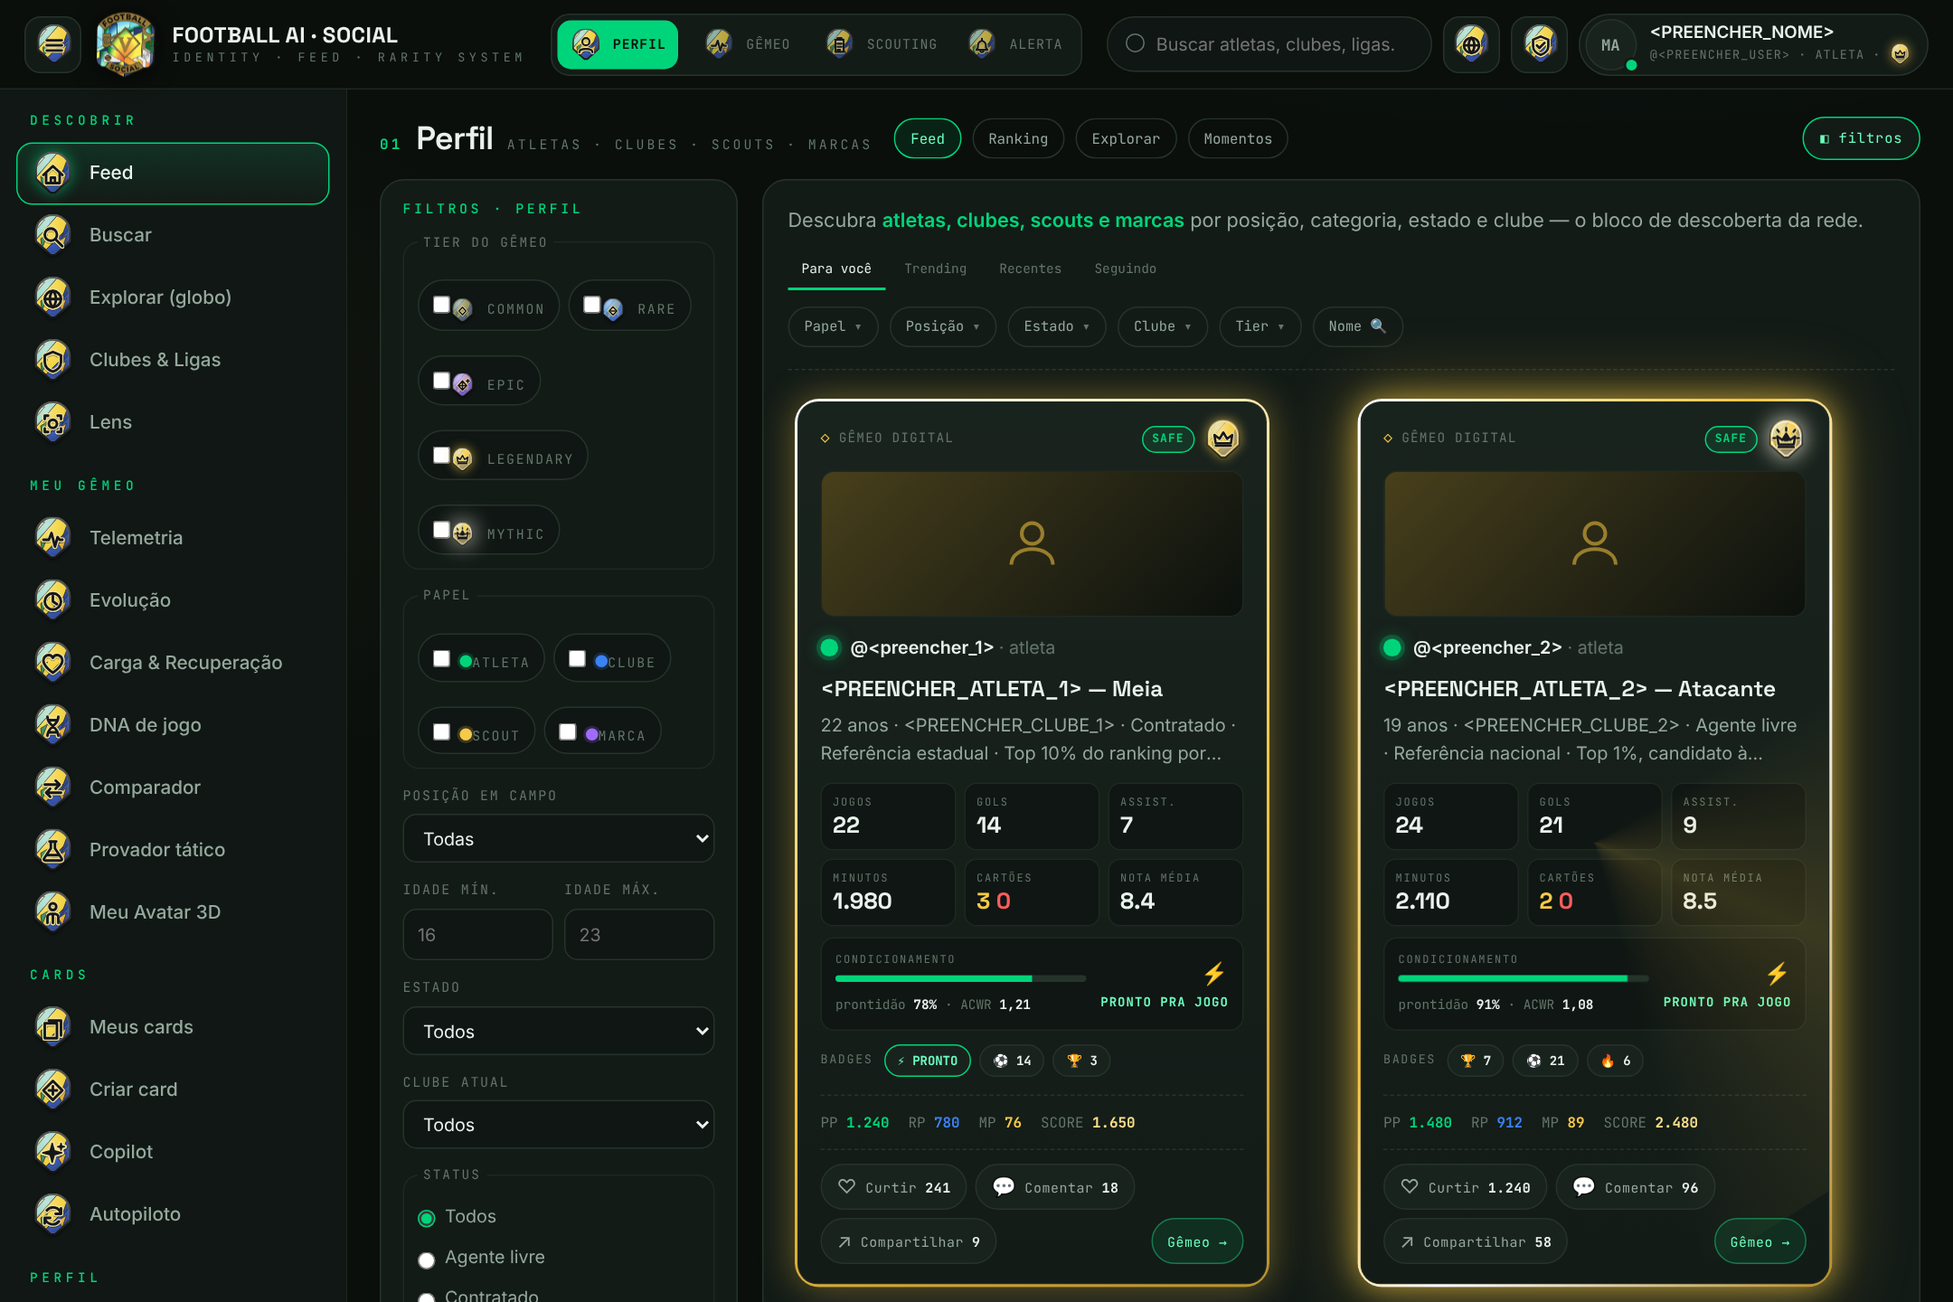
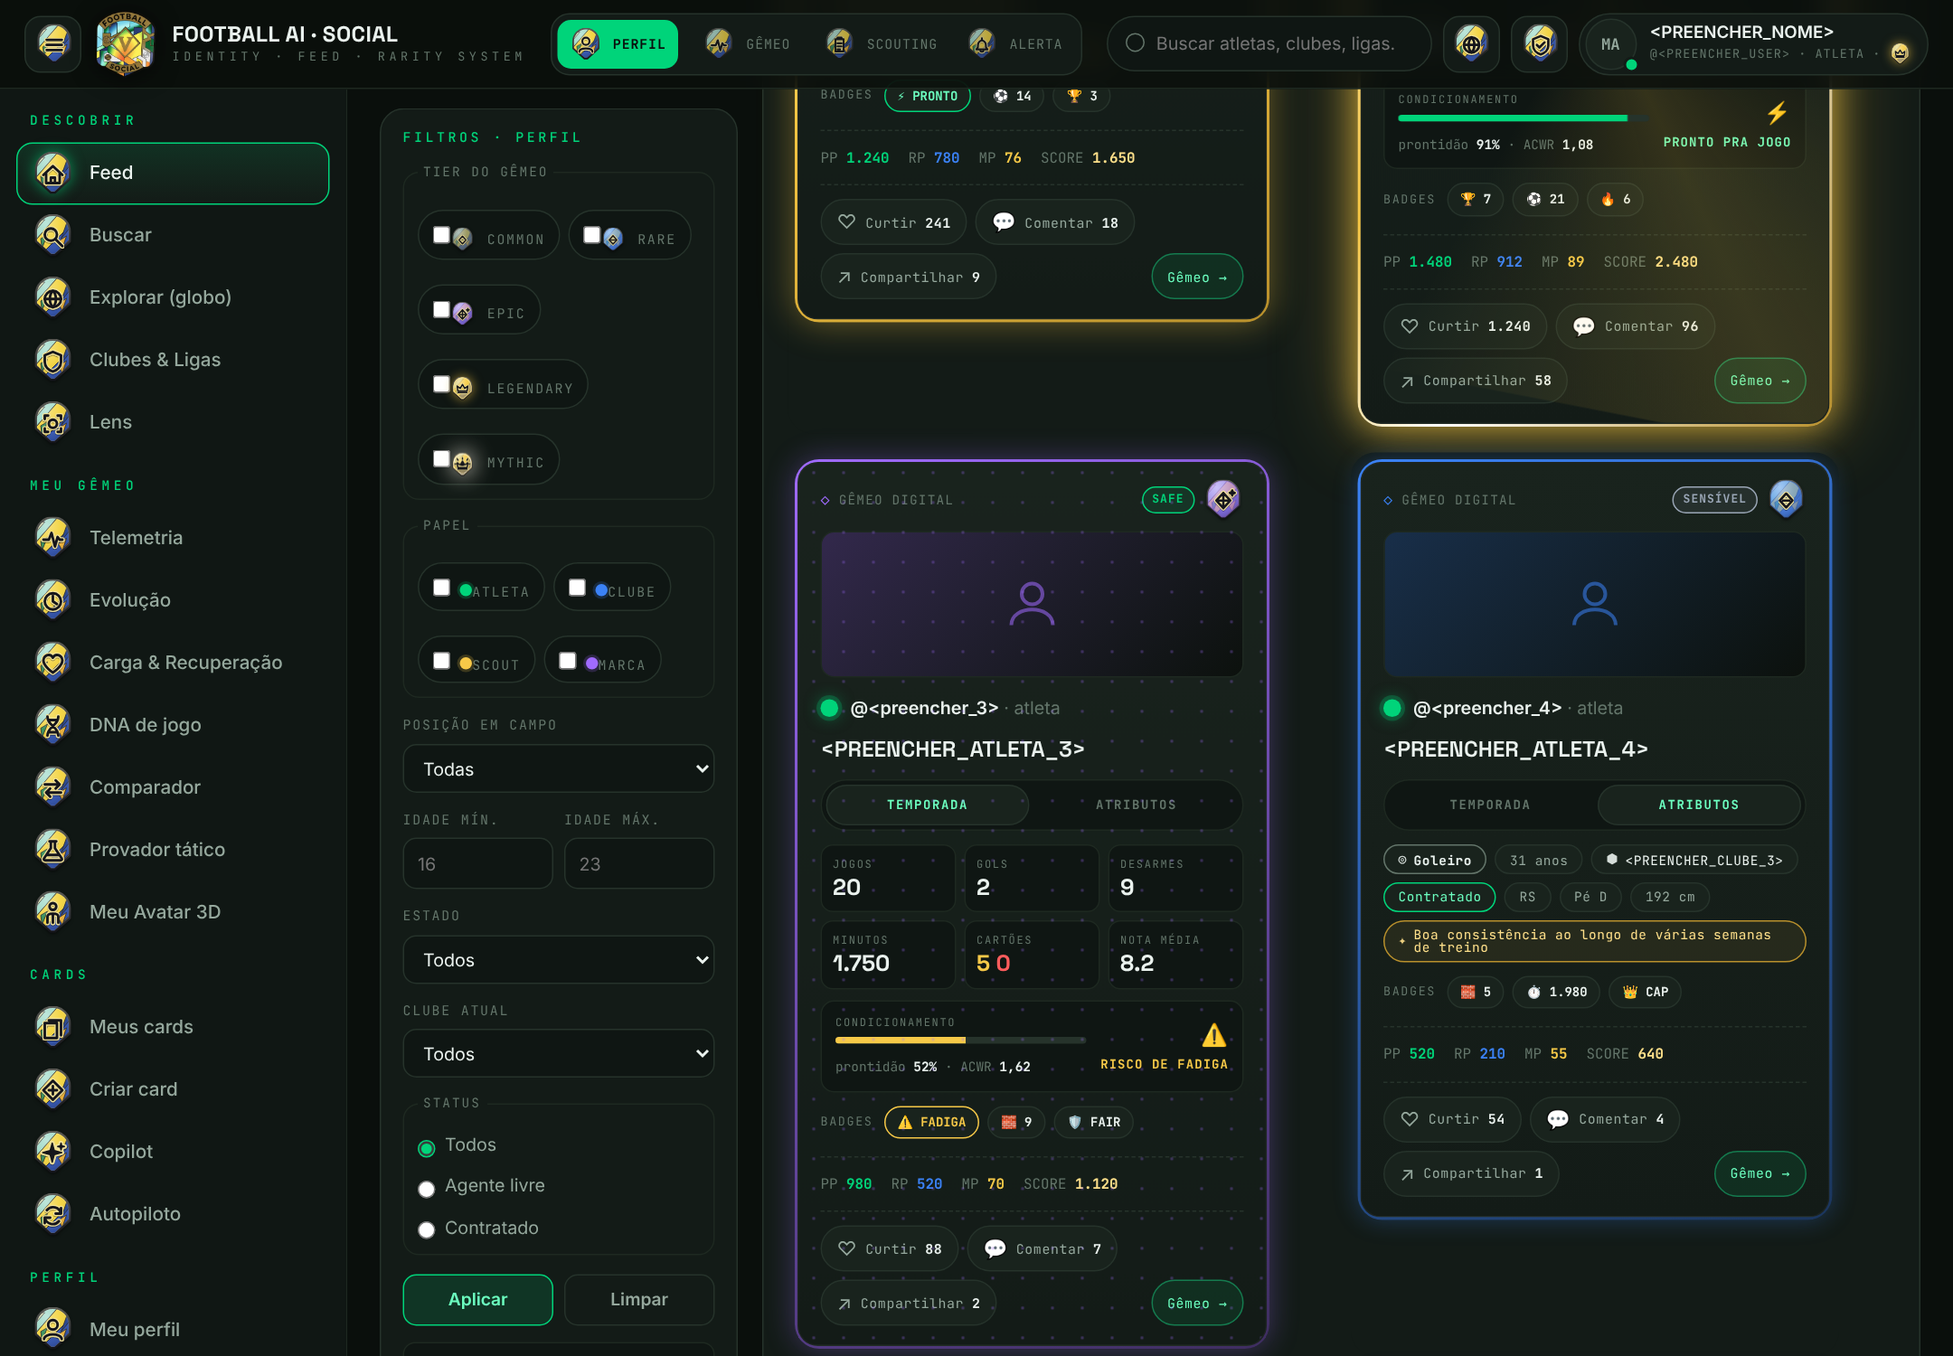
feat(spa): segmented Temporada/Atributos window inside the athlete card
- In-card segment control separates season stats + conditioning from
  player attributes to avoid information overload
- Attributes rendered as a badge list (position, age, club, contract,
  state, foot, height, reference, ranking) instead of running text
- Position removed from the card title; it is now an attribute badge
- CARD_ANATOMY.md and preview screenshots updated

Claude-Session: https://claude.ai/code/session_01XZjHoxSjPGWnwe63bLQC1o

diff --git a/src/main/resources/static/app.js b/src/main/resources/static/app.js
@@ -31,11 +31,11 @@
 
   /* ---------- dados mock (pessoais como <PREENCHER_*>) ---------- */
   const athletes = [
-    { id:'ath-1', name:'<PREENCHER_ATLETA_1>', handle:'@<preencher_1>', ini:'A1', role:'ATLETA', pos:'Meia', age:22, state:'PR', club:'<PREENCHER_CLUBE_1>', status:'CONTRATADO', tier:'LEGENDARY', score:1650, pp:1240, rp:780, s:[82,88,76], sub:'Referência estadual · Top 10% do ranking por posição', badges:[['⚡ PRONTO','green'],['⚽ 14','' ],['🏆 3','']], season:{games:22,goals:14,assists:7,minutes:1980,yellow:3,red:0}, phys:{readiness:78,acwr:1.21,status:'READY'}, likes:241, comments:18, shares:9 },
-    { id:'ath-2', name:'<PREENCHER_ATLETA_2>', handle:'@<preencher_2>', ini:'A2', role:'ATLETA', pos:'Atacante', age:19, state:'SP', club:'<PREENCHER_CLUBE_2>', status:'AGENTE_LIVRE', tier:'MYTHIC', score:2480, pp:1480, rp:912, s:[91,93,89], sub:'Referência nacional · Top 1%, candidato à Seleção Football AI', badges:[['🏆 7',''],['⚽ 21',''],['🔥 6','']], momentum:1.6, season:{games:24,goals:21,assists:9,minutes:2110,yellow:2,red:0}, phys:{readiness:91,acwr:1.08,status:'READY'}, likes:1240, comments:96, shares:58 },
-    { id:'ath-3', name:'<PREENCHER_ATLETA_3>', handle:'@<preencher_3>', ini:'A3', role:'ATLETA', pos:'Zagueiro', age:27, state:'PR', club:'<PREENCHER_CLUBE_1>', status:'CONTRATADO', tier:'EPIC', score:1120, pp:980, rp:520, s:[78,80,70], sub:'Sequência de atuações de destaque · Momentum 1,4×', badges:[['⚠ FADIGA','yellow'],['🧱 9',''],['🛡 FAIR','']], season:{games:20,goals:2,assists:1,minutes:1750,yellow:5,red:0,tackles:9}, phys:{readiness:52,acwr:1.62,status:'FATIGUE'}, likes:88, comments:7, shares:2 },
-    { id:'ath-4', name:'<PREENCHER_ATLETA_4>', handle:'@<preencher_4>', ini:'A4', role:'ATLETA', pos:'Goleiro', age:31, state:'RS', club:'<PREENCHER_CLUBE_3>', status:'CONTRATADO', tier:'RARE', score:640, pp:520, rp:210, s:[60,72,55], sub:'Boa consistência ao longo de várias semanas de treino', badges:[['🧱 5',''],['⏱ 1.980',''],['👑 CAP','']], season:{games:23,goals:0,assists:0,minutes:1980,yellow:1,red:0,cleanSheets:5}, phys:{readiness:66,acwr:1.15,status:'INJURED',injury:{type:'Lesão grau 2 · coxa',ret:'3 sem'}}, likes:54, comments:4, shares:1 },
-    { id:'ath-5', name:'<PREENCHER_ATLETA_5>', handle:'@<preencher_5>', ini:'A5', role:'ATLETA', pos:'Lateral', age:17, state:'SP', club:'<PREENCHER_CLUBE_2>', status:'AGENTE_LIVRE', tier:'COMMON', score:310, pp:180, rp:60, s:[52,44,38], sub:'Gêmeo iniciante — poucos dados registrados ainda', badges:[['⚡ PRONTO','green'],['⏱ 420','']], season:{games:6,goals:1,assists:0,minutes:420,yellow:0,red:0}, phys:{readiness:84,acwr:0.95,status:'READY'}, likes:12, comments:1, shares:0 },
+    { id:'ath-1', name:'<PREENCHER_ATLETA_1>', handle:'@<preencher_1>', ini:'A1', role:'ATLETA', pos:'Meia', age:22, foot:'D', height:176, state:'PR', club:'<PREENCHER_CLUBE_1>', status:'CONTRATADO', tier:'LEGENDARY', score:1650, pp:1240, rp:780, s:[82,88,76], sub:'Referência estadual · Top 10% do ranking por posição', badges:[['⚡ PRONTO','green'],['⚽ 14','' ],['🏆 3','']], season:{games:22,goals:14,assists:7,minutes:1980,yellow:3,red:0}, phys:{readiness:78,acwr:1.21,status:'READY'}, likes:241, comments:18, shares:9 },
+    { id:'ath-2', name:'<PREENCHER_ATLETA_2>', handle:'@<preencher_2>', ini:'A2', role:'ATLETA', pos:'Atacante', age:19, foot:'E', height:181, state:'SP', club:'<PREENCHER_CLUBE_2>', status:'AGENTE_LIVRE', tier:'MYTHIC', score:2480, pp:1480, rp:912, s:[91,93,89], sub:'Referência nacional · Top 1%, candidato à Seleção Football AI', badges:[['🏆 7',''],['⚽ 21',''],['🔥 6','']], momentum:1.6, season:{games:24,goals:21,assists:9,minutes:2110,yellow:2,red:0}, phys:{readiness:91,acwr:1.08,status:'READY'}, likes:1240, comments:96, shares:58 },
+    { id:'ath-3', name:'<PREENCHER_ATLETA_3>', handle:'@<preencher_3>', ini:'A3', role:'ATLETA', pos:'Zagueiro', age:27, foot:'D', height:189, state:'PR', club:'<PREENCHER_CLUBE_1>', status:'CONTRATADO', tier:'EPIC', score:1120, pp:980, rp:520, s:[78,80,70], sub:'Sequência de atuações de destaque · Momentum 1,4×', badges:[['⚠ FADIGA','yellow'],['🧱 9',''],['🛡 FAIR','']], season:{games:20,goals:2,assists:1,minutes:1750,yellow:5,red:0,tackles:9}, phys:{readiness:52,acwr:1.62,status:'FATIGUE'}, likes:88, comments:7, shares:2 },
+    { id:'ath-4', name:'<PREENCHER_ATLETA_4>', handle:'@<preencher_4>', ini:'A4', role:'ATLETA', pos:'Goleiro', age:31, foot:'D', height:192, state:'RS', club:'<PREENCHER_CLUBE_3>', status:'CONTRATADO', tier:'RARE', score:640, pp:520, rp:210, s:[60,72,55], sub:'Boa consistência ao longo de várias semanas de treino', badges:[['🧱 5',''],['⏱ 1.980',''],['👑 CAP','']], season:{games:23,goals:0,assists:0,minutes:1980,yellow:1,red:0,cleanSheets:5}, phys:{readiness:66,acwr:1.15,status:'INJURED',injury:{type:'Lesão grau 2 · coxa',ret:'3 sem'}}, likes:54, comments:4, shares:1 },
+    { id:'ath-5', name:'<PREENCHER_ATLETA_5>', handle:'@<preencher_5>', ini:'A5', role:'ATLETA', pos:'Lateral', age:17, foot:'E', height:172, state:'SP', club:'<PREENCHER_CLUBE_2>', status:'AGENTE_LIVRE', tier:'COMMON', score:310, pp:180, rp:60, s:[52,44,38], sub:'Gêmeo iniciante — poucos dados registrados ainda', badges:[['⚡ PRONTO','green'],['⏱ 420','']], season:{games:6,goals:1,assists:0,minutes:420,yellow:0,red:0}, phys:{readiness:84,acwr:0.95,status:'READY'}, likes:12, comments:1, shares:0 },
   ];
   const orgs = [
     { id:'club-1', name:'<PREENCHER_CLUBE_1>', handle:'@<preencher_clube>', ini:'CL', role:'CLUBE', tier:'EPIC', score:1210, sub:'Clube formador · Série A · 31 atletas · 3 vagas abertas', meta:'CLUBE FORMADOR', stats:[['PLANTEL','31'],['PRONTOS','27'],['VAGAS','3']], verified:true },
@@ -137,13 +137,22 @@
     const cc = a.tier === 'COMMON' || !a.tier ? '#5c6b62' : TIER_COLOR[a.tier];
     // badges Athletic Persona ficam na área inferior de dados (hero limpo, sem stats repetidas)
     const bdg = a.badges ? `<div class="bdgrow"><small>BADGES</small>${a.badges.slice(0, 3).map(b => `<b class="${b[1]}" data-badge="${esc(b[0])}">${esc(b[0])}</b>`).join('')}</div>` : '';
-    const title = a.pos ? `${esc(a.name)} — ${a.pos}` : esc(a.name);
-    const sub = a.pos ? `${a.age} anos · ${a.club} · ${a.status === 'AGENTE_LIVRE' ? 'Agente livre' : 'Contratado'} · ${a.sub}` : a.sub;
+    const title = esc(a.name); // posição NÃO vai no título: é um badge da lista de atributos
+    // atributos NUNCA em texto corrido: lista de itens/badges (posição, idade, clube, contrato, referência, ranking…)
+    const refs = String(a.sub || '').split(' · ').map(t => t.trim()).filter(Boolean);
+    const attrItems = a.pos ? [
+      ['◎', a.pos, 'pos'], ['', `${a.age} anos`, ''], ['⬢', a.club, 'club'],
+      ['', a.status === 'AGENTE_LIVRE' ? 'Agente livre' : 'Contratado', a.status === 'AGENTE_LIVRE' ? 'free' : 'signed'],
+      a.state ? ['', a.state, ''] : null, a.foot ? ['', `Pé ${a.foot}`, ''] : null, a.height ? ['', `${a.height} cm`, ''] : null,
+      ...refs.map(t => ['✦', t, 'ref']),
+    ].filter(Boolean) : refs.map(t => ['', t, '']);
+    const attrs = `<ul class="attrs">${attrItems.map(([i, t, c]) => `<li class="${c}">${i ? `<span class="i">${i}</span>` : ''}${esc(t)}</li>`).join('')}</ul>`;
     let data = '';
     if (a.season) {
       const sz = a.season, ph = a.phys || {}, st = PHYS[ph.status] || PHYS.READY;
       const gk = sz.cleanSheets !== undefined, df = sz.tackles !== undefined;
-      data += `<div class="sgrid">
+      data += `<div class="vtabs" role="tablist"><button type="button" class="vt on" role="tab" data-vt="temporada">Temporada</button><button type="button" class="vt" role="tab" data-vt="atributos">Atributos</button></div>
+      <div class="vpane" data-vt="temporada"><div class="sgrid">
         <div class="stile"><small>JOGOS</small><b>${sz.games}</b></div>
         <div class="stile"><small>${gk ? 'CLEAN SHEETS' : 'GOLS'}</small><b>${gk ? sz.cleanSheets : sz.goals}</b></div>
         <div class="stile"><small>${df ? 'DESARMES' : 'ASSIST.'}</small><b>${df ? sz.tackles : sz.assists}</b></div>
@@ -154,7 +163,10 @@
       <div class="phys ${st[2]}">
         <div class="pl"><small>CONDICIONAMENTO</small><div class="rd"><i style="--w:${ph.readiness || 0}%"></i></div><span>prontidão <b>${ph.readiness ?? '—'}%</b> · ACWR <b>${(ph.acwr ?? 0).toLocaleString('pt-BR')}</b></span></div>
         <div class="pst"><span class="i">${st[0]}</span><b>${st[1]}</b>${ph.injury ? `<small>${esc(ph.injury.type)} · retorno ${esc(ph.injury.ret)}</small>` : ''}</div>
-      </div>`;
+      </div></div>
+      <div class="vpane" data-vt="atributos" hidden>${attrs}</div>`;
+    } else {
+      data = attrs;
     }
     const stats = a.pp !== undefined
       ? `<span class="pp">PP <b>${a.pp.toLocaleString('pt-BR')}</b></span><span class="rp">RP <b>${a.rp.toLocaleString('pt-BR')}</b></span><span class="mp">MP <b>${a.s ? a.s[2] : '—'}</b></span><span class="st">SCORE <b>${a.score.toLocaleString('pt-BR')}</b></span>`
@@ -171,7 +183,6 @@
         <div class="imgblock"><svg viewBox="0 0 24 24"><circle cx="12" cy="8" r="4"/><path d="M4 20c0-4 4-6 8-6s8 2 8 6"/></svg></div>
         <div class="author"><span class="dot dc-${r.dc}"></span><span class="handle"><b>${esc(a.handle)}</b> <span>· ${r.label}</span>${a.verified ? '<span class="verified">✦</span>' : ''}</span></div>
         <div class="vtitle">${title}</div>
-        <div class="vsub">${esc(sub)}</div>
         ${data}
         ${bdg}
         <div class="statrow">${stats}</div>
@@ -409,6 +420,7 @@
       else if (kind === 'save') { act.classList.toggle('on'); toast(act.classList.contains('on') ? 'SALVO' : 'REMOVIDO DOS SALVOS'); }
       return;
     }
+    const vt = e.target.closest('.vtabs .vt'); if (vt) { const card = vt.closest('.vcard'); card.querySelectorAll('.vtabs .vt').forEach(x => x.classList.toggle('on', x === vt)); card.querySelectorAll('.vpane').forEach(pn => pn.hidden = pn.dataset.vt !== vt.dataset.vt); return; }
     const b = e.target.closest('.bdgrow b[data-badge]'); if (b) toast(`TAP TO EXPAND · ${b.dataset.badge} · GET /v1/athletes/{id}/badges/{type}/history`); });
 
   $$('.sorttabs').forEach(st => st.addEventListener('click', e => { const b = e.target.closest('button'); if (!b) return; $$('button', st).forEach(x => x.classList.toggle('on', x === b)); toast(`ORDENAR · ${b.textContent.toUpperCase()}`); }));

diff --git a/src/main/resources/static/styles.css b/src/main/resources/static/styles.css
@@ -241,8 +241,22 @@ svg.ic.tier.t-mythic{filter:drop-shadow(0 0 6px rgba(245,197,66,.85));animation:
 .vcard .bdgrow b.green{border-color:var(--c-green);color:var(--green-hi)} .vcard .bdgrow b.red{border-color:var(--c-red);color:#ffb3b3} .vcard .bdgrow b.yellow{border-color:var(--c-yellow);color:var(--c-yellow)}
 .vcard .author{display:flex;align-items:center;gap:9px;margin-top:8px}
 .vcard .vtitle{font-family:var(--font-display);font-weight:600;font-size:1.02rem;margin-top:11px;line-height:1.22;color:var(--text)}
-.vcard .vsub{font-size:.83rem;color:var(--text-2);margin-top:6px;display:-webkit-box;-webkit-line-clamp:2;-webkit-box-orient:vertical;overflow:hidden}
-.vcard .sgrid{display:grid;grid-template-columns:repeat(3,1fr);gap:6px;margin-top:12px}
+/* legado */ .vcard .vsub{font-size:.83rem;color:var(--text-2);margin-top:6px;display:-webkit-box;-webkit-line-clamp:2;-webkit-box-orient:vertical;overflow:hidden}
+/* janela segmentada do card: Temporada (sgrid + condicionamento) · Atributos (lista de badges) */
+.vcard .vtabs{display:flex;gap:4px;margin-top:12px;background:var(--ink-2);border:1px solid var(--line-soft);border-radius:999px;padding:3px}
+.vcard .vtabs .vt{flex:1;border:0;background:transparent;color:var(--text-3);font-family:var(--font-mono);font-size:.58rem;font-weight:600;letter-spacing:.12em;text-transform:uppercase;padding:7px 8px;border-radius:999px;cursor:pointer;min-height:30px}
+.vcard .vtabs .vt.on{background:var(--panel-2);color:var(--green-hi);box-shadow:inset 0 0 0 1px var(--line)}
+.vcard .vpane[hidden]{display:none}
+/* atributos sempre como lista de itens/badges — nunca texto corrido */
+.vcard .attrs{display:flex;flex-wrap:wrap;gap:6px;list-style:none;margin:10px 0 0;padding:0}
+.vcard .attrs li{display:inline-flex;align-items:center;gap:5px;font-family:var(--font-mono);font-size:.6rem;letter-spacing:.04em;color:var(--text-2);background:var(--panel-2);border:1px solid var(--line);border-radius:999px;padding:5px 10px;line-height:1}
+.vcard .attrs li .i{font-size:.62rem;opacity:.9}
+.vcard .attrs li.pos{color:var(--text);font-weight:700;border-color:var(--text-3)}
+.vcard .attrs li.club{color:var(--text)}
+.vcard .attrs li.signed{border-color:var(--c-green);color:var(--green-hi)}
+.vcard .attrs li.free{border-color:var(--c-blue);color:#bcd6ff}
+.vcard .attrs li.ref{border-color:var(--gold-deep);color:var(--gold-hi);background:rgba(245,197,66,.08)}
+.vcard .sgrid{display:grid;grid-template-columns:repeat(3,1fr);gap:6px;margin-top:10px}
 .vcard .stile{background:var(--ink-2);border:1px solid var(--line-soft);border-radius:9px;padding:7px 8px}
 .vcard .stile small{display:block;font-family:var(--font-mono);font-size:.5rem;letter-spacing:.14em;color:var(--text-3)}
 .vcard .stile b{font-family:var(--font-display);font-size:1.05rem;color:var(--text);line-height:1.2}

diff --git a/docs/CARD_ANATOMY.md b/docs/CARD_ANATOMY.md
@@ -89,10 +89,12 @@
 ││ │              hero limpo — sem stats nem badges sobrepostos    │   │ │
 ││ └──────────────────────────────────────────────────────────────┘   │ │
 ││ ● @handle · atleta ✦                                               │ │ ← author
-││ Nome — Posição                                                     │ │ ← vtitle
-││ 22 anos · Clube · Contratado · Referência estadual…  (≤ 2 linhas)  │ │ ← vsub
-││ ┌JOGOS 22┐┌GOLS 14┐┌ASSIST. 7┐┌MINUTOS 1.980┐┌CARTÕES 3 0┐┌NOTA 8.4┐│ │ ← sgrid (temporada)
-││ ┌ CONDICIONAMENTO ▬▬▬▬▬▬▬▬▬░░ prontidão 78% · ACWR 1,21  ⚡ PRONTO ┐│ │ ← phys
+││ Nome                                                               │ │ ← vtitle (só o nome)
+││ ( TEMPORADA )( ATRIBUTOS )                                         │ │ ← vtabs (janela segmentada)
+││ ┌JOGOS 22┐┌GOLS 14┐┌ASSIST. 7┐┌MINUTOS 1.980┐┌CARTÕES 3 0┐┌NOTA 8.4┐│ │ ← sgrid (aba Temporada)
+││ ┌ CONDICIONAMENTO ▬▬▬▬▬▬▬▬▬░░ prontidão 78% · ACWR 1,21  ⚡ PRONTO ┐│ │ ← phys (aba Temporada)
+││ (◎ Meia)(22 anos)(⬢ Clube)(Contratado)(PR)(Pé D)(176 cm)           │ │ ← attrs (aba Atributos)
+││ (✦ Referência estadual)(✦ Top 10% do ranking por posição)          │ │   lista de badges, nunca texto corrido
 ││ BADGES (⚡ PRONTO) (⚽ 14) (🏆 3)                 ← Athletic Persona ≤ 3  │ │ ← bdgrow
 ││ ─ ─ PP 1.240 · RP 780 · MP 76 · SCORE 1.650 ─ ─ ─ ─ ─ ─ ─ ─ ─ ─ ─ ─│ │ ← statrow
 ││ (♡ Curtir 241) (💬 Comentar 18) (↗ Compartilhar 9)     (Gêmeo →)   │ │ ← actbar
@@ -106,9 +108,11 @@
 | `imgblock` | 108 px, gradiente da cor de contexto; **hero limpo** (foto/avatar apenas) | nada sobreposto à imagem: nem stats, nem títulos, nem badges — evita repetir gols/títulos que já estão no `sgrid`. |
 | **`bdgrow` (badges)** | rótulo `BADGES` + até 3 pills *Athletic Persona* (status físico → `priority` → contador), na área inferior de dados, logo abaixo de `phys` | toque abre o histórico (*tap to expand*); nunca sobre a imagem. |
 | `author` | bolinha 13 px + `@handle · papel`; ✦ dourado = verificado | |
-| `vtitle` / `vsub` | Nome — Posição · metadados + leitura do tier (≤ 2 linhas) | |
-| **`sgrid` (temporada)** | Jogos · Gols (goleiro: Clean sheets) · Assistências (defensor: Desarmes) · Minutos · Cartões (🟨 🟥) · Nota média | tiles mono .5 rem + Space Grotesk 1.05 rem. |
-| **`phys` (condicionamento)** | barra de prontidão 1–100 · ACWR 7:28 · status `⚡ PRONTO PRA JOGO` / `⚠ RISCO DE FADIGA` / `🩹 DEPARTAMENTO MÉDICO` + tipo da lesão e retorno previsto | **privado por padrão**: só aparece para terceiros com `shareMedicalData = true`; a variante lesão pinta o bloco de vermelho. |
+| `vtitle` | **só o nome** do atleta (a posição é um badge da lista de atributos) | |
+| **`vtabs` (janela segmentada)** | `Temporada` · `Atributos` — segment control dentro do card | evita excesso de informação: uma aba por vez; default `Temporada`. |
+| **`attrs` (aba Atributos)** | lista de itens/badges: `◎ posição` · `idade` · `⬢ clube` · `Contratado`/`Agente livre` · UF · pé dominante · altura · `✦ referência` · `✦ ranking` | **atributos nunca em texto corrido**: cada atributo é um pill (`.attrs li`), com cor por semântica (verde contratado, azul agente livre, dourado referência). |
+| **`sgrid` (aba Temporada)** | Jogos · Gols (goleiro: Clean sheets) · Assistências (defensor: Desarmes) · Minutos · Cartões (🟨 🟥) · Nota média | tiles mono .5 rem + Space Grotesk 1.05 rem. |
+| **`phys` (aba Temporada)** | barra de prontidão 1–100 · ACWR 7:28 · status `⚡ PRONTO PRA JOGO` / `⚠ RISCO DE FADIGA` / `🩹 DEPARTAMENTO MÉDICO` + tipo da lesão e retorno previsto | **privado por padrão**: só aparece para terceiros com `shareMedicalData = true`; a variante lesão pinta o bloco de vermelho. |
 | `statrow` | `PP` (verde) · `RP` (azul) · `MP` (amarelo) · `SCORE` (dourado) | fórmula do Rarity Engine; tiers de recompensa (Bronze→Diamante) correm em paralelo. |
 | `actbar` | Curtir · Comentar · Compartilhar · **Gêmeo →** | Staff: `Pranchetas →` · Clube: `Plantel →`. |
 
